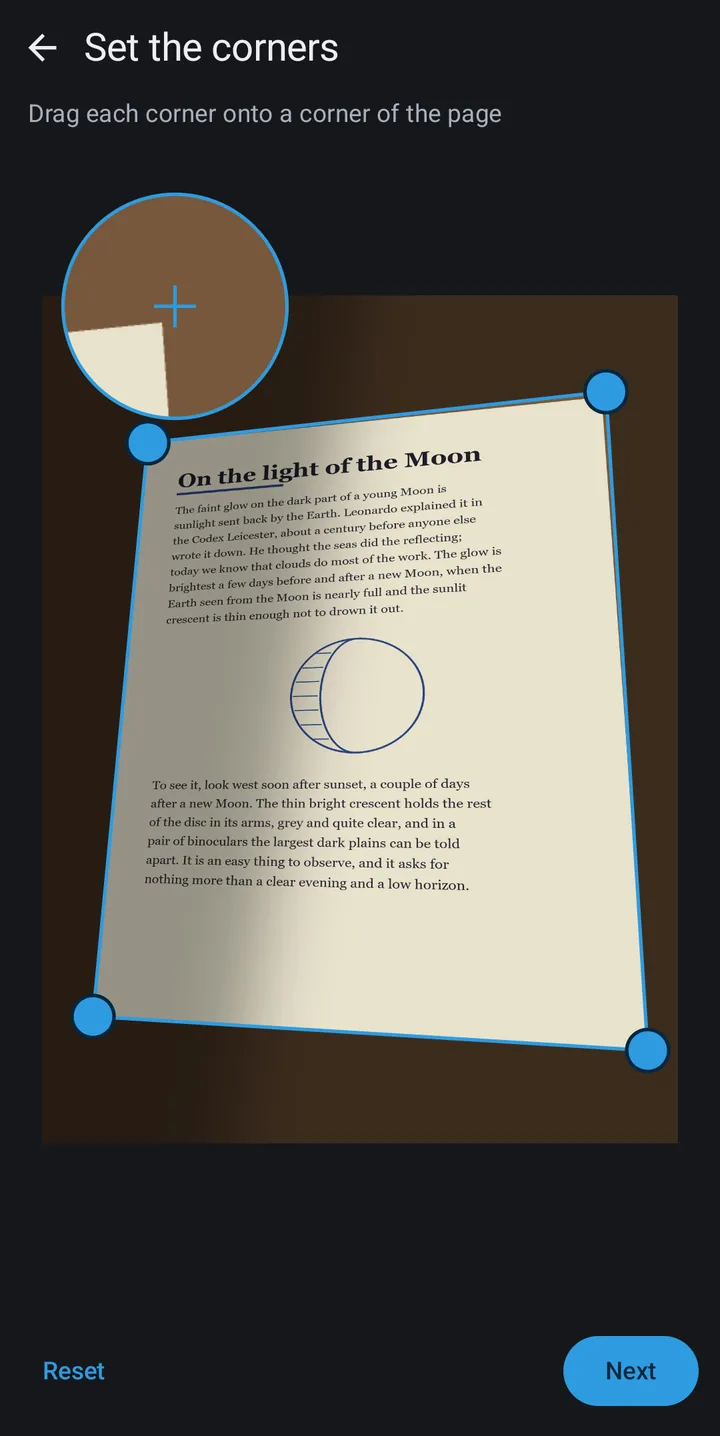
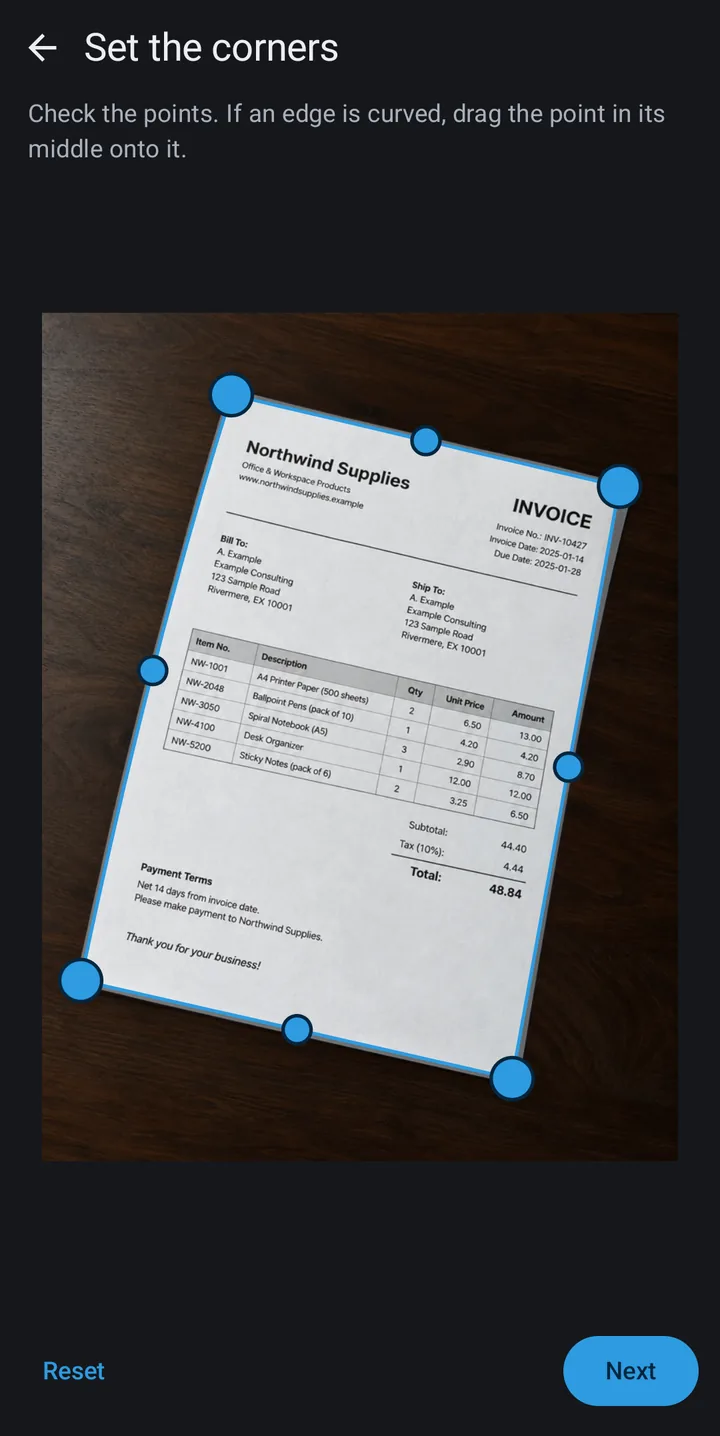
bump version to 0.3.0

diff --git a/lunaris-scanner/README.md b/lunaris-scanner/README.md
@@ -25,8 +25,8 @@
   <img src="docs/screenshots/settings.webp" width="32%" alt="The settings: appearance, scanning and about">
 </p>
 <p align="center">
-  <img src="docs/screenshots/corners.webp" width="32%" alt="Setting the four corners of a photographed page, with a loupe showing what the finger covers">
-  <img src="docs/screenshots/document.webp" width="32%" alt="The same page straightened and cleaned, with the choices of clean-up and paper, Add page and Save PDF">
+  <img src="docs/screenshots/corners.webp" width="32%" alt="A tilted invoice on a dark table, found by the app, with a point on each corner and in the middle of each edge">
+  <img src="docs/screenshots/document.webp" width="32%" alt="The same invoice straightened and cleaned in greyscale, with the choices of clean-up and paper, Add page and Save">
 </p>
 
 ## Download
@@ -66,13 +66,18 @@ since other Lunaris apps publish their releases here too.
 - Checks the length, the allowed characters and the check digit against the chosen format before generating
 
 **Documents**
-- Photograph a page, or pick a photo, and set its four corners; a loupe shows what your finger is covering
+- Photograph a page, or pick a photo: the app looks for the sheet and sets its corners, which you check and can move;
+  a loupe shows what your finger is covering
+- A sheet that is not flat can be followed too: each edge has a point in its middle, which the app places by itself
+  when the edge is clearly curved
 - Straightens the page, whitens the paper and lifts the shadows: clean colour, greyscale, black and white, or
-  straighten only
+  straighten only. Plain text starts in black and white, and a page with a stamp, a coloured signature or a photograph
+  in clean colour; once you choose, the next pages follow your choice
 - Keeps the page's own proportions, or A4 or Letter at 300 dots per inch
-- Several pages in one PDF, which you can turn, put in order and delete; a single page can also go out as PNG or JPEG
-- It does not find the corners by itself, flatten a curved book page or read the text: the PDF holds a picture of
-  each page, with no author, date or software name inside
+- Save as one PDF with all the pages, or as JPG or PNG with one file per page; pages can be turned, put in order and
+  deleted
+- White paper on a white table has edges too faint to find: set the corners by hand there. A crumpled sheet will not
+  come out flat, and the text is not read: each page holds a picture, with no author, date or software name inside
 - Pages with large dark areas, such as photographs, are lightened by the clean-up; use straighten only for those
 
 **History and settings**

diff --git a/README.md b/README.md
@@ -39,7 +39,7 @@ been: they work offline, show nothing but your work, and stay out of your data.
 <a href="lunaris-scanner/"><img src="lunaris-scanner/docs/screenshots/contact.webp" width="104" alt="A contact from a code"></a>
 <a href="lunaris-scanner/"><img src="lunaris-scanner/docs/screenshots/history.webp" width="104" alt="The history of scans"></a>
 <a href="lunaris-scanner/"><img src="lunaris-scanner/docs/screenshots/create.webp" width="104" alt="Creating a QR code"></a>
-<a href="lunaris-scanner/"><img src="lunaris-scanner/docs/screenshots/document.webp" width="104" alt="A page straightened and cleaned, ready to save as PDF"></a>
+<a href="lunaris-scanner/"><img src="lunaris-scanner/docs/screenshots/document.webp" width="104" alt="An invoice straightened and cleaned, ready to save"></a>
 </td>
 </tr>
 <tr>
